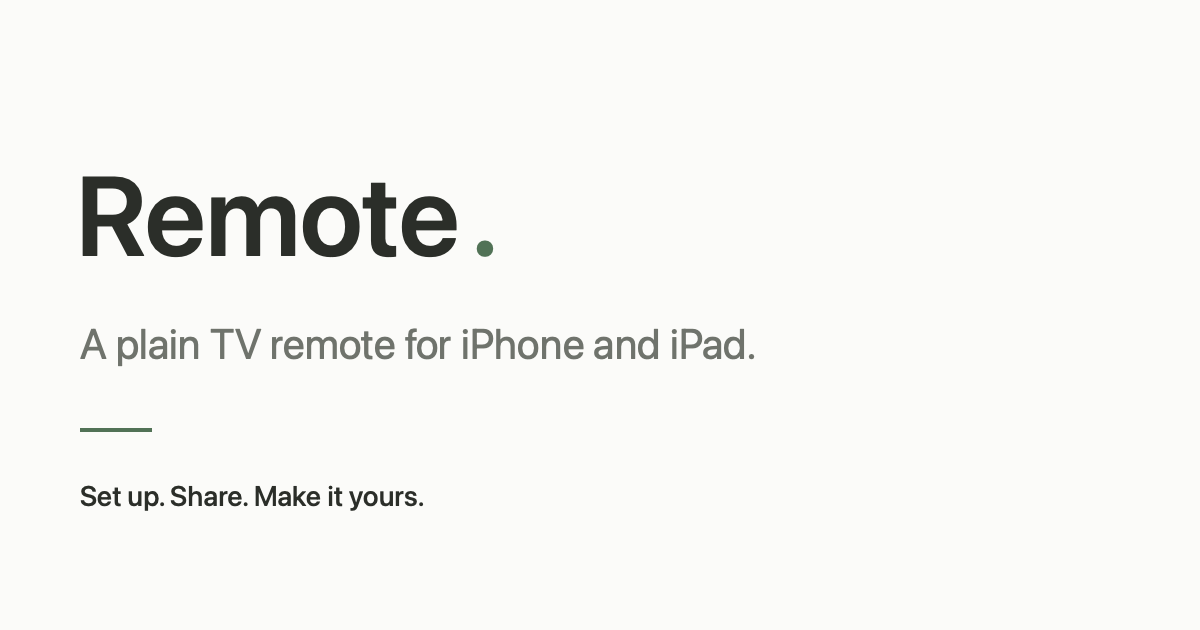
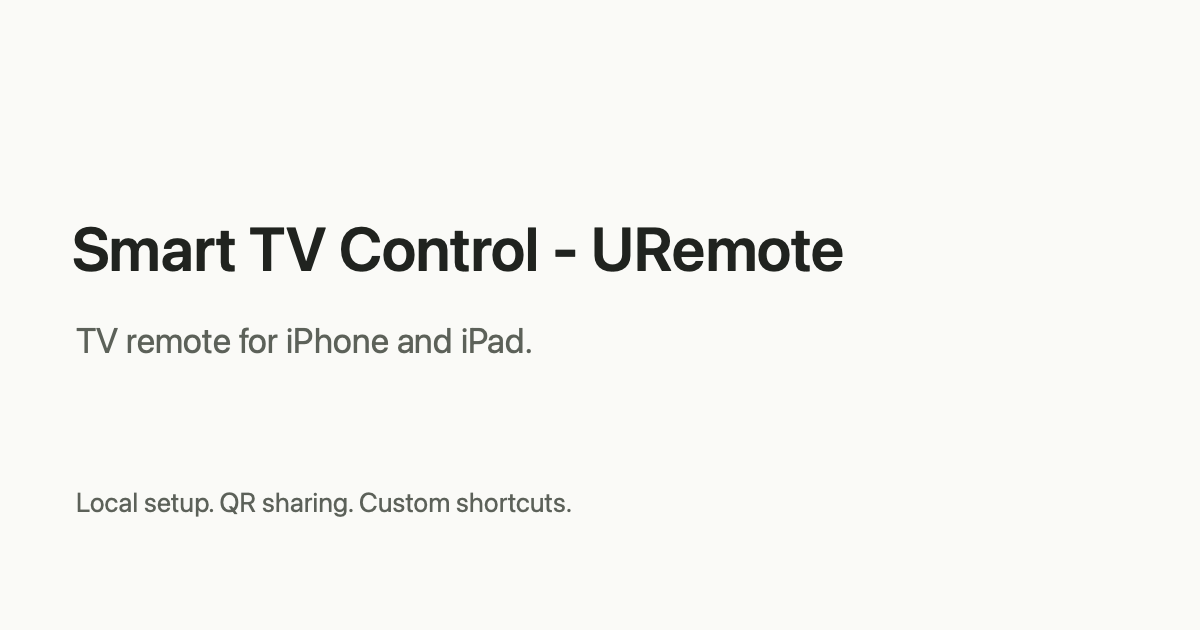
Update website branding to Smart TV Control - URemote

diff --git a/src/styles/global.css b/src/styles/global.css
@@ -90,7 +90,8 @@ dd { margin: 0; color: var(--muted); }
 
 @media (max-width: 640px) {
   .shell { width: calc(100% - 40px); }
-  .site-header { min-height: 88px; gap: 1rem; }
+  .site-header { min-height: 88px; gap: 0.5rem 1rem; flex-wrap: wrap; padding-block: 1rem; }
+  .wordmark { font-size: 1.3rem; letter-spacing: -0.035em; }
   nav { gap: 1.2rem; }
   .hero { grid-template-columns: 1fr; padding-block: 2.5rem 3.5rem; gap: 2.5rem; }
   .hero-screen { max-width: 264px; }

diff --git a/README.md b/README.md
@@ -1,6 +1,6 @@
-# URemote website
+# Smart TV Control - URemote website
 
-The public, static website for Remote, a local TV remote for iPhone and iPad. This repository contains only website code and approved public artwork. The iOS app source remains in its separate private repository.
+The public, static website for Smart TV Control - URemote, a local TV remote for iPhone and iPad displayed as URemote on your device. This repository contains only website code and approved public artwork. The iOS app source remains in its separate private repository.
 
 Live URL: <https://jtvargas.github.io/remote-website/>
 
